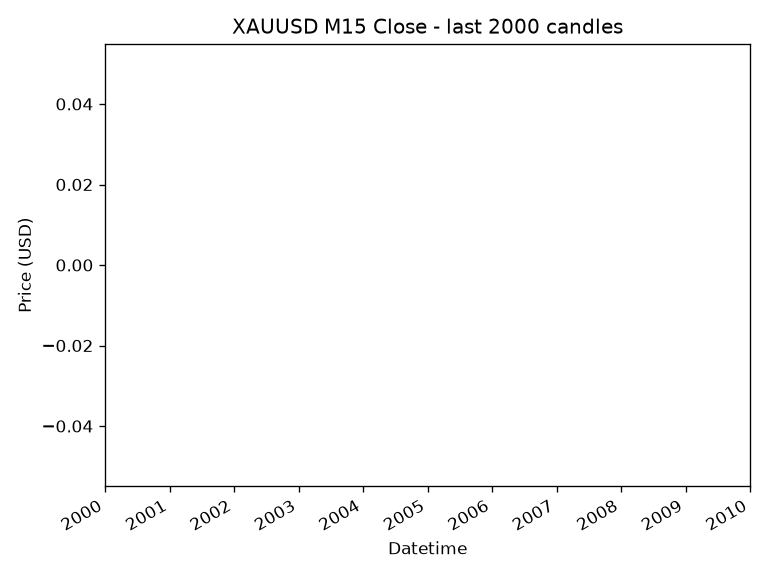
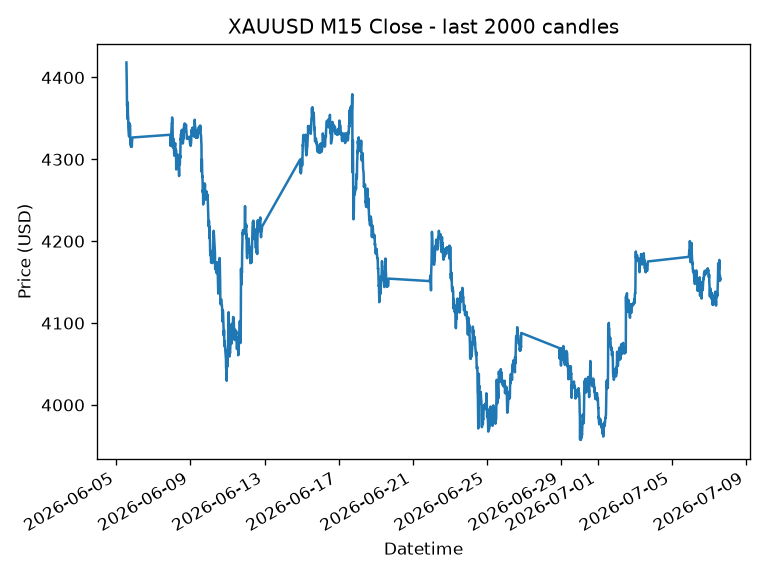
Add new parquet file for XAU/USD M15 clean data

diff --git a/structure.py b/structure.py
@@ -1,0 +1,87 @@
+"""
+structure.py
+Stage 2a of the Nixie's SMC backtester: find swing highs and swing lows.
+
+A swing high = a candle whose HIGH is strictly greater than the highs of the
+`n` candles on its left AND the `n` candles on its right (a local peak).
+A swing low  = a candle whose LOW is strictly less than the lows of the
+`n` candles on each side (a local trough).
+
+`n` is the one big knob: bigger n = fewer, more significant swings.
+
+Run it with:  uv run structure.py
+"""
+
+import pandas as pd
+import matplotlib.pyplot as plt
+
+
+def find_swings(df: pd.DataFrame, n: int = 3) -> pd.DataFrame:
+    """
+    Adds two boolean columns to df:
+        swing_high  -> True on candles that are a local peak
+        swing_low   -> True on candles that are a local trough
+    A candle needs `n` candles on EACH side to be judged, so the first `n`
+    and last `n` candles can never be swings (not enough neighbours).
+    """
+    highs = df["High"].values          # pull the raw numbers out as fast numpy arrays
+    lows = df["Low"].values
+    total = len(df)
+
+    # Start every candle as "not a swing", then flip the ones that qualify.
+    is_swing_high = [False] * total
+    is_swing_low = [False] * total
+
+    # We can only judge candles that have n neighbours on both sides,
+    # so we walk from index n up to (total - n).
+    for i in range(n, total - n):
+        left_highs = highs[i - n:i]        # the n candles immediately to the left
+        right_highs = highs[i + 1:i + n + 1]  # the n candles immediately to the right
+        # Strict > on both sides: the peak must be taller than everything around it.
+        # (Strict avoids counting flat plateaus, which are ambiguous.)
+        if highs[i] > left_highs.max() and highs[i] > right_highs.max():
+            is_swing_high[i] = True
+
+        left_lows = lows[i - n:i]
+        right_lows = lows[i + 1:i + n + 1]
+        if lows[i] < left_lows.min() and lows[i] < right_lows.min():
+            is_swing_low[i] = True
+
+    df = df.copy()                          # don't mutate the caller's dataframe by surprise
+    df["swing_high"] = is_swing_high
+    df["swing_low"] = is_swing_low
+    return df
+
+
+# ---------------------------------------------------------------------------
+# When run directly, load the cleaned data, find swings, report, and plot.
+# ---------------------------------------------------------------------------
+if __name__ == "__main__":
+    N = 3   # the swing sensitivity knob — change this and re-run to see the effect
+
+    df = pd.read_parquet("xauusd_m15_clean.parquet")   # the clean data from Stage 1
+    df = find_swings(df, n=N)
+
+    n_highs = df["swing_high"].sum()
+    n_lows = df["swing_low"].sum()
+    print(f"Swing highs found : {n_highs:,}")
+    print(f"Swing lows found  : {n_lows:,}")
+    print(f"That's a swing every ~{len(df) / (n_highs + n_lows):.0f} candles on average.")
+
+    # --- Validation plot: last 500 candles, with swings marked -------------
+    window = df.iloc[-500:]                      # a readable slice
+    sh = window[window["swing_high"]]            # just the swing-high rows in that slice
+    sl = window[window["swing_low"]]             # just the swing-low rows
+
+    plt.figure(figsize=(14, 7))
+    plt.plot(window.index, window["Close"], color="lightgray", linewidth=1, label="Close")
+    # Mark swing highs on their HIGH price with a red down-triangle,
+    # swing lows on their LOW price with a green up-triangle.
+    plt.scatter(sh.index, sh["High"], color="red", marker="v", s=40, label="Swing High", zorder=5)
+    plt.scatter(sl.index, sl["Low"], color="green", marker="^", s=40, label="Swing Low", zorder=5)
+    plt.title(f"XAUUSD M15 - swing highs & lows (n={N}), last 500 candles")
+    plt.ylabel("Price (USD)")
+    plt.legend()
+    plt.tight_layout()
+    plt.savefig("swings_check.png", dpi=120)
+    print("Saved swings_check.png - open it and eyeball whether the peaks/troughs look right.")

diff --git a/load_data.py b/load_data.py
@@ -1,6 +1,6 @@
 """
 load_data.py
-Stage 1 of the Nixie SMC backtester: get the price data into Python, cleanly.
+Stage 1 of the Nixie's SMC backtester: get the price data into Python, cleanly.
 
 What this script does, in plain English:
   1. Peeks at the raw CSV so we SEE its exact format before trusting it.
@@ -45,7 +45,8 @@ print("-" * 60)
 #   - date & time already in ONE column? see the note under section 4.
 df = pd.read_csv(
     CSV_PATH,
-    header=None,                                             # file has no column-name row
+    sep=r"\s+",                                             # columns are split by WHITESPACE (tabs/spaces), not commas
+    header=None,                                            # file has no column-name row
     names=["date", "time", "Open", "High", "Low", "Close", "Volume"],  # so we name them
 )
 
@@ -53,8 +54,8 @@ df = pd.read_csv(
 # datetime objects. The format string must match your file EXACTLY:
 #   %Y = 4-digit year, %m = month, %d = day, %H = 24h hour, %M = minute
 df["Datetime"] = pd.to_datetime(
-    df["date"] + " " + df["time"],
-    format="%Y.%m.%d %H:%M",
+    df["date"].astype(str) + " " + df["time"].astype(str),  # .astype(str) dodges pandas 3.0 Arrow-string quirks
+    format="%Y-%m-%d %H:%M",                                # DASHES, matching your file (2022-04-12 19:00)
 )
 # NOTE: if your file has ONE datetime column instead of two, delete the two
 # lines above and instead do:
@@ -65,6 +66,7 @@ df["Datetime"] = pd.to_datetime(
 # ---------------------------------------------------------------------------
 df = df.set_index("Datetime")                          # timestamp becomes the row index
 df = df[["Open", "High", "Low", "Close", "Volume"]]    # keep only what we need, in order
+df = df.astype(float)                                  # force real numbers (not Arrow strings) so later math is predictable
 df = df.sort_index()                                   # oldest candle first, guaranteed
 
 # ---------------------------------------------------------------------------

diff --git a/main.py b/main.py
@@ -1,5 +1,5 @@
 def main():
-    print("Hello from smc-backtester!")
+    print("Hello from Nixie's smc-backtester!")
 
 
 if __name__ == "__main__":